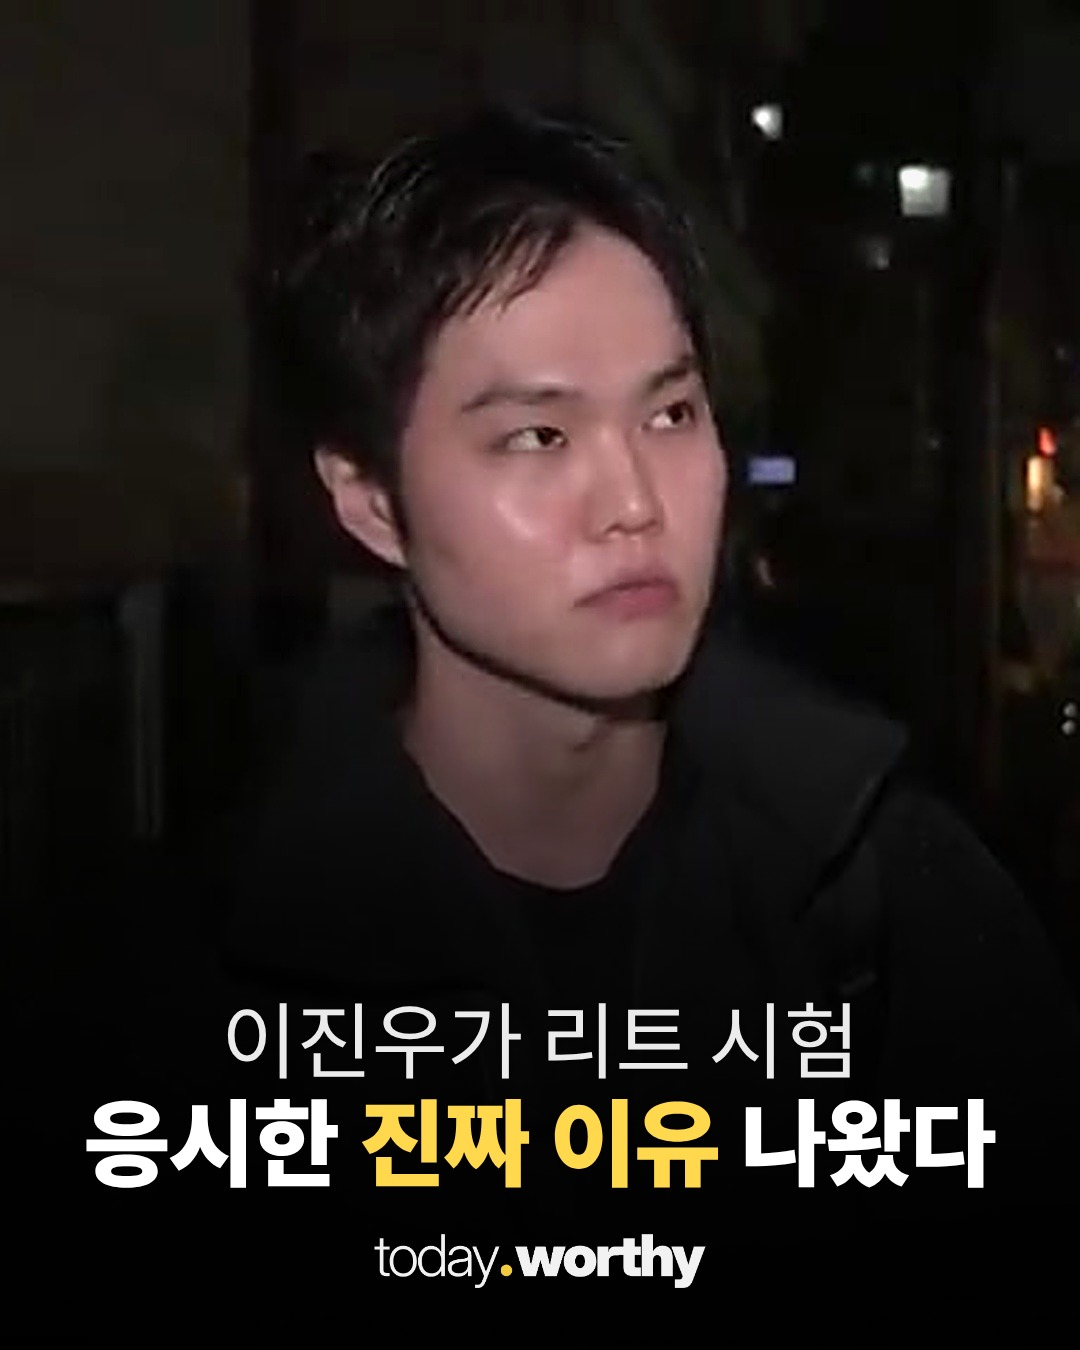
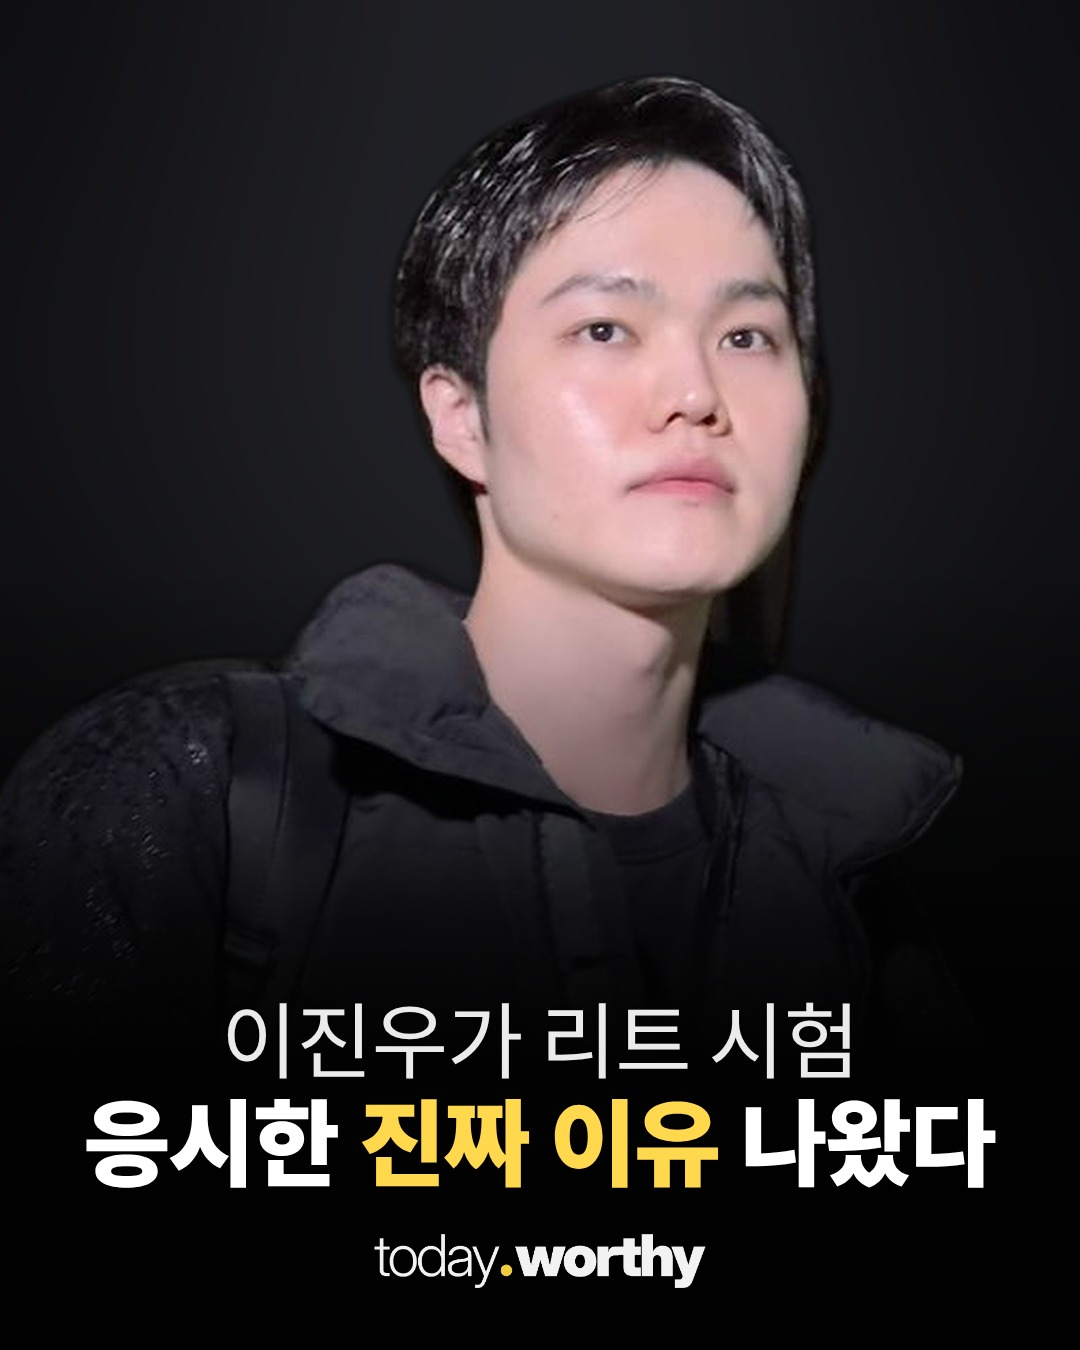
booktalk: 표지 선명한 사진 누끼(rembg)
Claude-Session: https://claude.ai/code/session_01FGsw5S4nGrZdCJo7qBU1wE

diff --git a/media/20261127-booktalk/make_cover.py b/media/20261127-booktalk/make_cover.py
@@ -1,18 +1,17 @@
-"""20261127-booktalk 표지 배경: 실제 사진(중앙일보 11.17 자택 앞) + JTBC 보도 화면 카드(앵커 '책 내려고 만점자 없는 리트 봤다')."""
+"""20261127-booktalk 표지: 중앙일보 11.17 자택 앞 사진(video/img1.jpg)을 rembg(u2net_human_seg)로 누끼 → 어두운 바탕 가운데."""
 from pathlib import Path
-from PIL import Image, ImageOps, ImageDraw, ImageFilter
+from PIL import Image, ImageDraw, ImageFilter
 D = Path(__file__).parent
+cut = Image.open(D / "cand/lee_cut.png").convert("RGBA"); cut = cut.crop(cut.getbbox())
 W, H = 1080, 1350
-bg = ImageOps.fit(Image.open(D / "video/img1.jpg").convert("RGB").crop((420, 0, 1100, 720)), (W, H), Image.LANCZOS, centering=(.62, .5)).convert("RGBA")
-fr = Image.open(D / "cand/fr/raw141.jpg").convert("RGB")  # JTBC 앵커 화면(자막 포함)
-cw = 560; cap = fr.resize((cw, round(fr.height * cw / fr.width)), Image.LANCZOS)
-pad = 6; card = Image.new("RGBA", (cw + 2 * pad, cap.height + 2 * pad), (0, 0, 0, 0))
-ImageDraw.Draw(card).rounded_rectangle((0, 0, card.width - 1, card.height - 1), 18, fill=(255, 255, 255, 255))
-m = Image.new("L", cap.size, 0); ImageDraw.Draw(m).rounded_rectangle((0, 0, cap.width - 1, cap.height - 1), 13, fill=255)
-card.paste(cap, (pad, pad), m)
-x, y = 40, 520
-sh = Image.new("RGBA", (card.width + 80, card.height + 80), (0, 0, 0, 0))
-ImageDraw.Draw(sh).rounded_rectangle((40, 52, card.width + 40, card.height + 52), 18, fill=(0, 0, 0, 180)); sh = sh.filter(ImageFilter.GaussianBlur(18))
-bg.alpha_composite(sh, (x - 40, y - 40)); bg.alpha_composite(card, (x, y))
-bg.convert("RGB").save(D / "cand/cover_bg.jpg", quality=94)
+bg = Image.new("RGB", (W, H), (10, 10, 12))
+glow = Image.new("L", (W, H), 0); ImageDraw.Draw(glow).ellipse((90, -100, 990, 800), fill=110); glow = glow.filter(ImageFilter.GaussianBlur(170))
+bg = Image.composite(Image.new("RGB", (W, H), (62, 64, 72)), bg, glow).convert("RGBA")
+k = 1450 / cut.height; cut = cut.resize((round(cut.width * k), round(cut.height * k)), Image.LANCZOS)
+face_cx = int(cut.width * 0.62)  # 얼굴 가운데(누끼 기준)
+bg.alpha_composite(cut, (W // 2 - face_cx, 60))
+g = Image.new("L", (W, H), 0); d = ImageDraw.Draw(g)
+for y in range(820, 1060): d.line((0, y, W, y), fill=int(255 * (y - 820) / 240))
+for y in range(1060, H): d.line((0, y, W, y), fill=255)
+Image.composite(Image.new("RGB", (W, H), (10, 10, 12)), bg.convert("RGB"), g).save(D / "cand/cover_bg.jpg", quality=95)
 print("ok")
